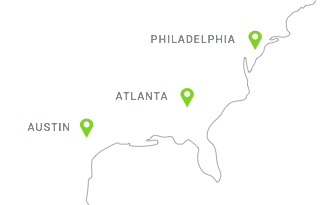
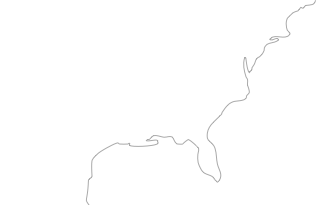
fix meetups map with points

diff --git a/app/assets/stylesheets/includes/_helpers.scss b/app/assets/stylesheets/includes/_helpers.scss
@@ -168,12 +168,12 @@ $icons-2x: sprite-map("icons2x/*.png", $layout: smart);
     }
 
 
-    @media all and (-webkit-min-device-pixel-ratio: 2) and (max-width: 575px),
-    all and (   min--moz-device-pixel-ratio: 2)      and (max-width: 575px),
-    all and (     -o-min-device-pixel-ratio: 2/1)    and (max-width: 575px),
-    all and (        min-device-pixel-ratio: 2)      and (max-width: 575px),
-    all and (                min-resolution: 192dpi) and (max-width: 575px),
-    all and (                min-resolution: 2dppx)  and (max-width: 575px) {
+    @media all and (-webkit-min-device-pixel-ratio: 2) and (max-width: 767px),
+    all and (   min--moz-device-pixel-ratio: 2)      and (max-width: 767px),
+    all and (     -o-min-device-pixel-ratio: 2/1)    and (max-width: 767px),
+    all and (        min-device-pixel-ratio: 2)      and (max-width: 767px),
+    all and (                min-resolution: 192dpi) and (max-width: 767px),
+    all and (                min-resolution: 2dppx)  and (max-width: 767px) {
       background-image: sprite-url($icons-2x) !important;
       background-size: (image-width(sprite-path($icons-2x)) / 2) (image-height(sprite-path($icons-2x)) / 2) !important;
       background-position: round(nth(sprite-position($icons-2x, ($sprite + "-" + $small_ext)), 1) / 2) round(nth(sprite-position($icons-2x, ($sprite + "-" + $small_ext)), 2) / 2) !important;

diff --git a/app/assets/stylesheets/layout/_sidebar.scss b/app/assets/stylesheets/layout/_sidebar.scss
@@ -278,8 +278,33 @@
           }
         }
         .img-wrapper {
-          img {
-            max-width: 320px;
+          position: relative;
+          max-width: 320px;
+          margin: 0 auto;
+
+          a {
+            position: absolute;
+
+            &.philadelphia {
+              top:29px;
+              left:159px;
+            }
+            &.atlanta {
+              top:86px;
+              left:124px;
+            }
+            &.austin {
+              top:118px;
+              left:32px;
+            }
+
+            span {
+              display: inline-block;
+              vertical-align: middle;
+              color:#888;
+              font-size: 11px;
+              line-height: 11px;
+            }
           }
         }
       }

diff --git a/app/assets/stylesheets/base/_sprites.scss b/app/assets/stylesheets/base/_sprites.scss
@@ -7,3 +7,5 @@
 .podcast-post-icon { @include use-sprite(podcast-post,false,false,false,true); }
 
 .more-arrow { @include use-sprite(more-arrow); }
+
+.location-icon { @include use-sprite(location-plotter); }
